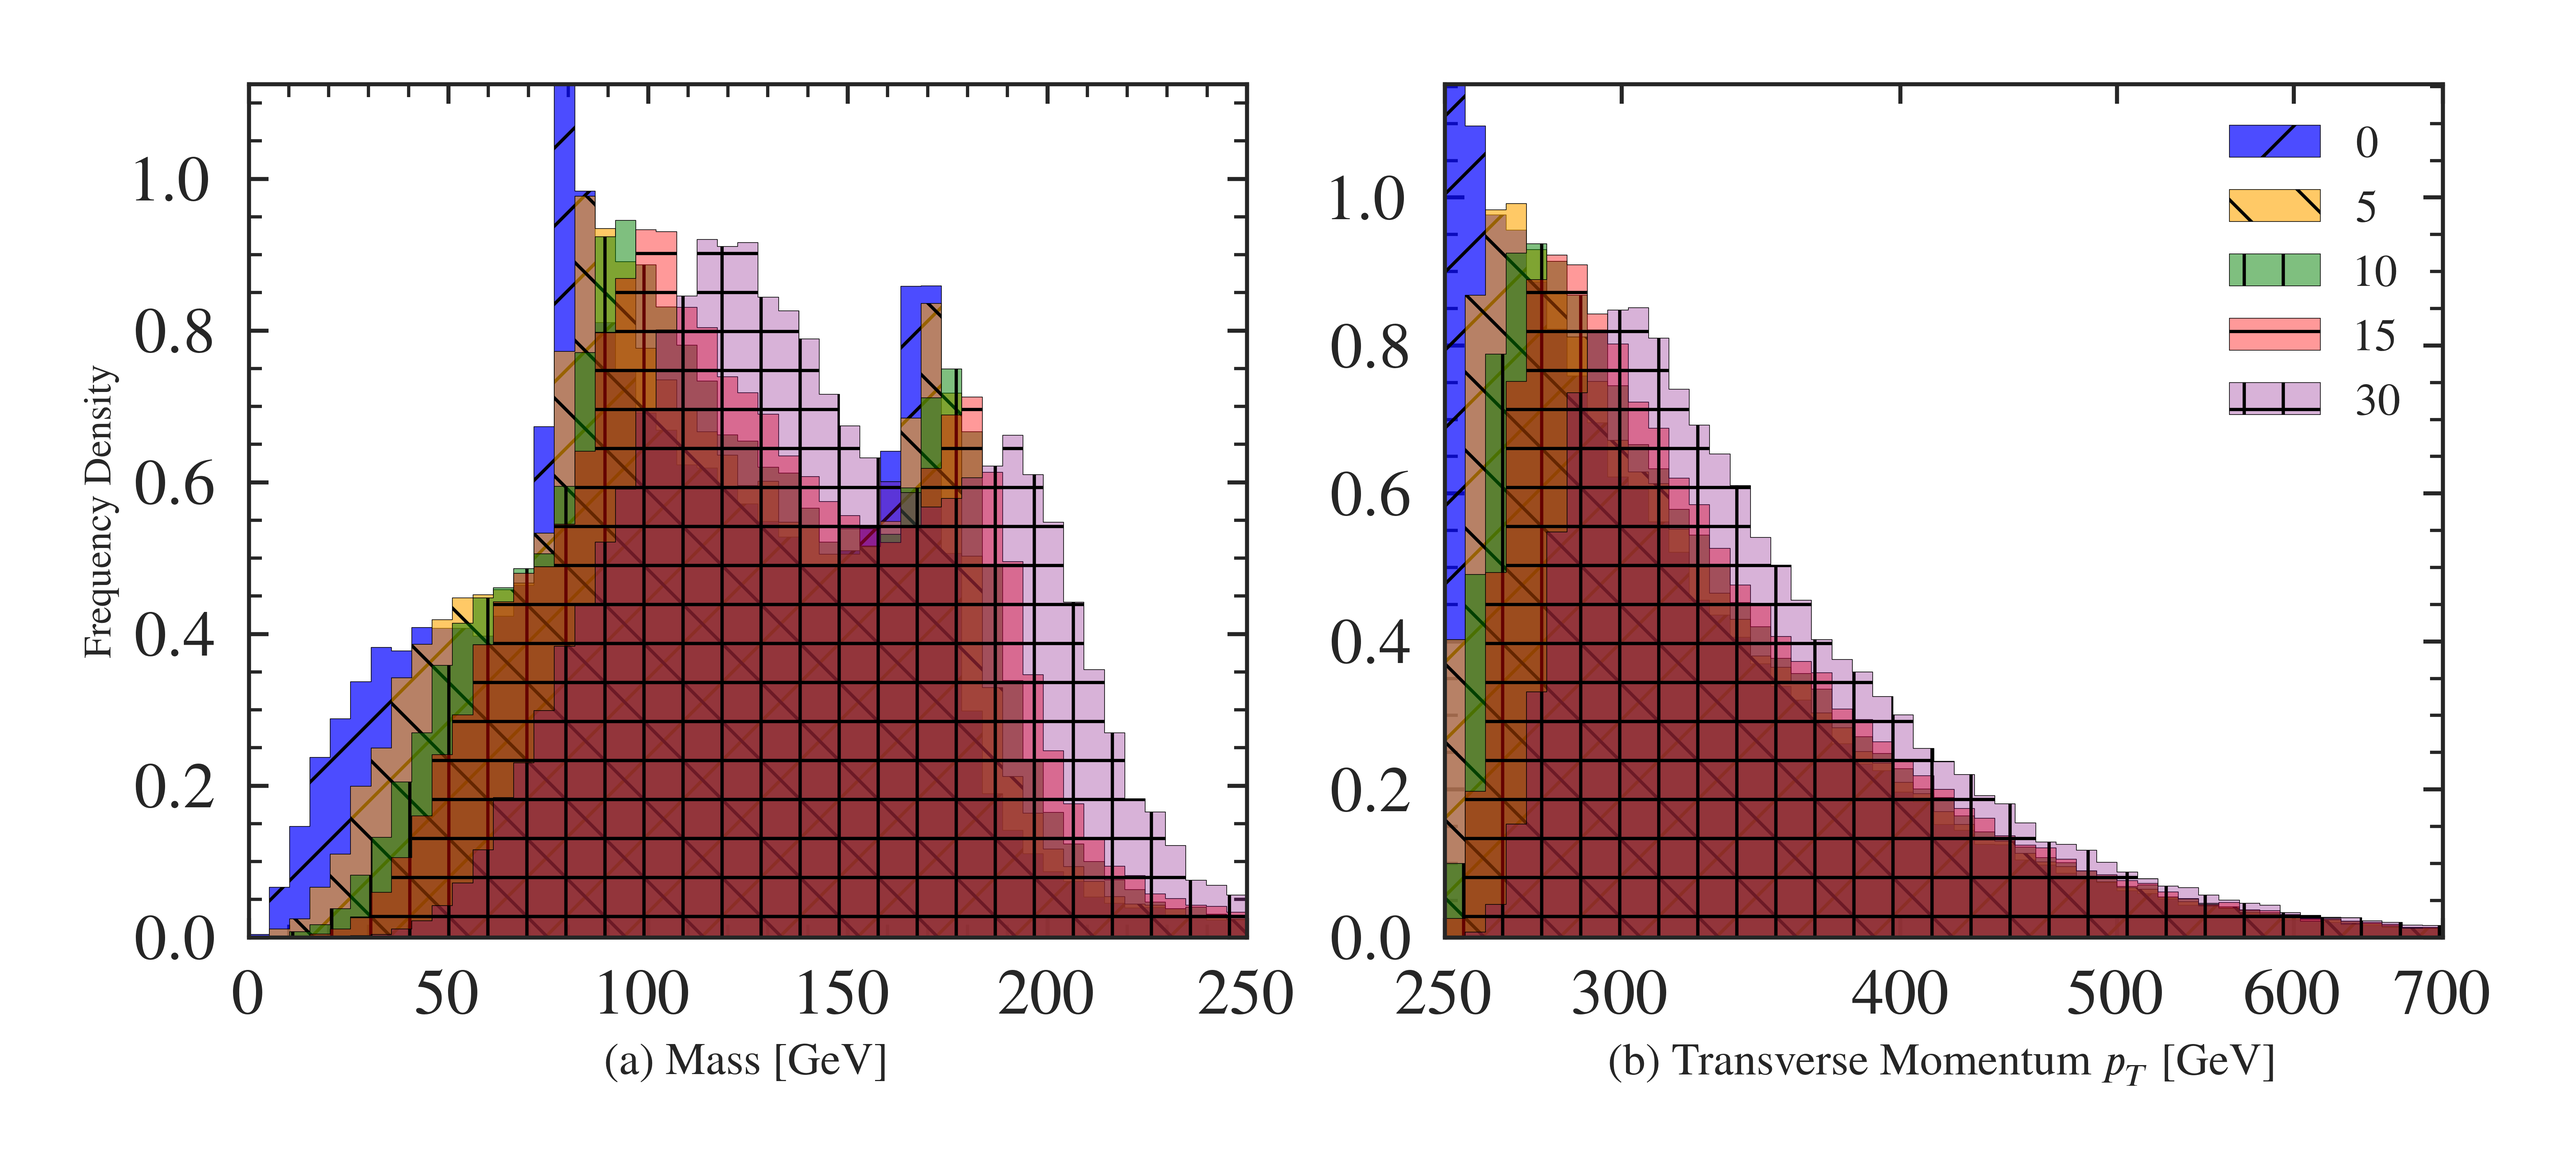
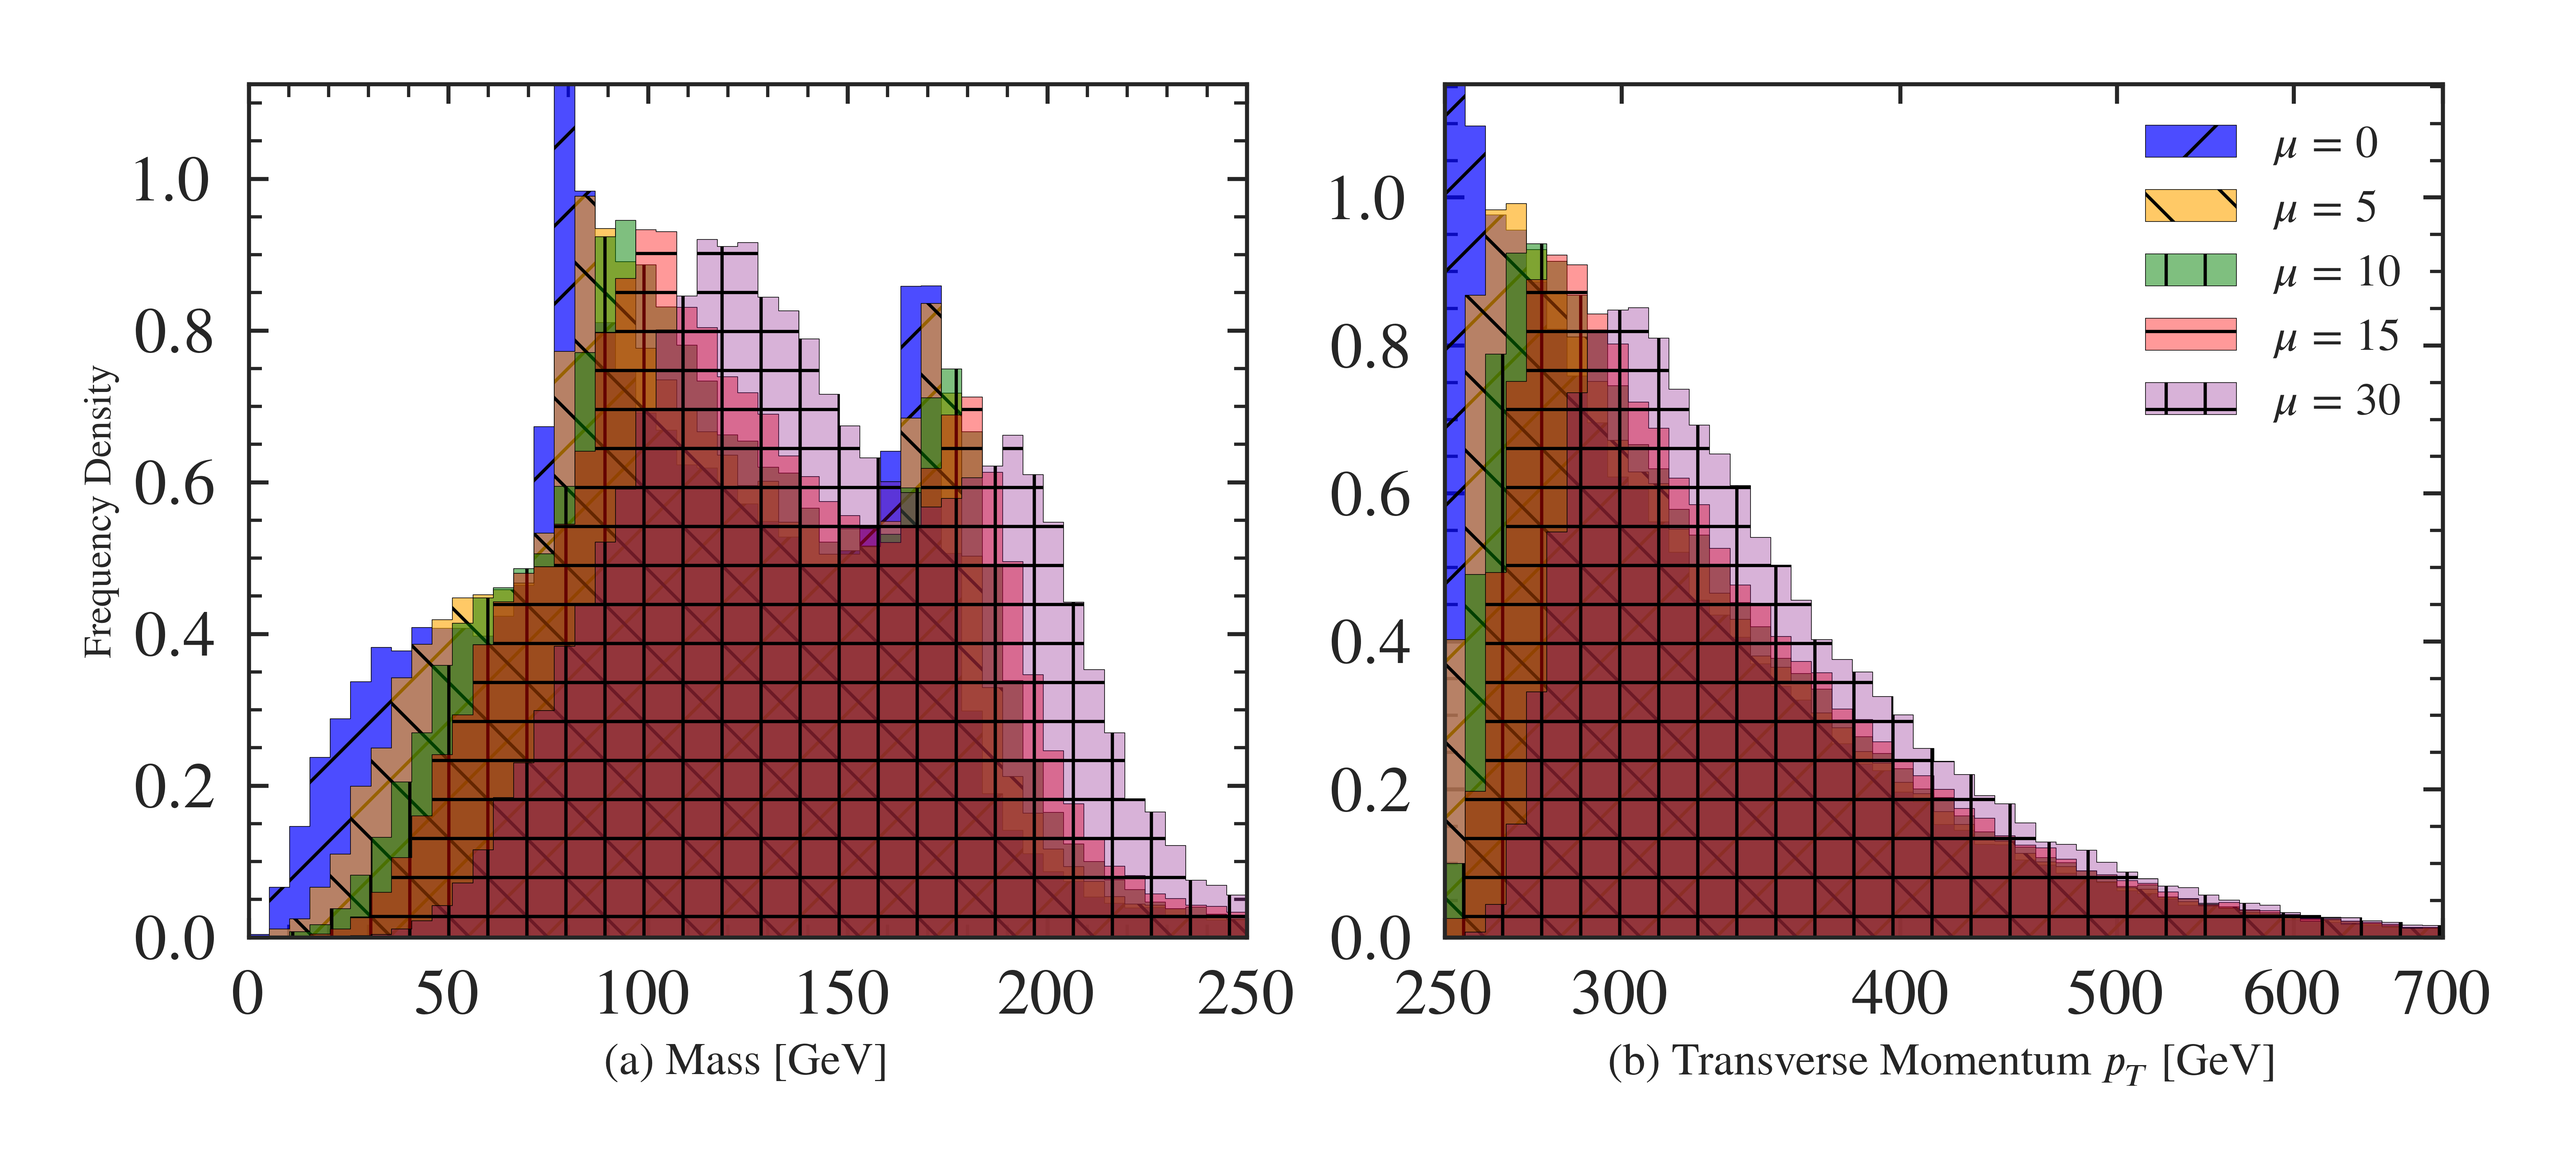
Fix legend

Changed region(s): [[0.8115, 0.093, 0.9364, 0.372]]

diff --git a/DDPMLHC/generate_plots/overlaid_1d.py b/DDPMLHC/generate_plots/overlaid_1d.py
@@ -90,6 +90,6 @@ def create_overlay_plots(mu_values, mass_max=250, save_path=None):
         "save_filename": f"event_{param['name'].lower()}_mu{mu}"
     } for param in hist_params] for mu in mu_values]
 
-    # mu_values = [f"$\mu={i}$" for i in mu_values]
+    mu_values = [f"$\mu={i}$" for i in mu_values]
     
     plot_combined_histograms_with_overlay(list_of_params_all, mu_values, save_path)
